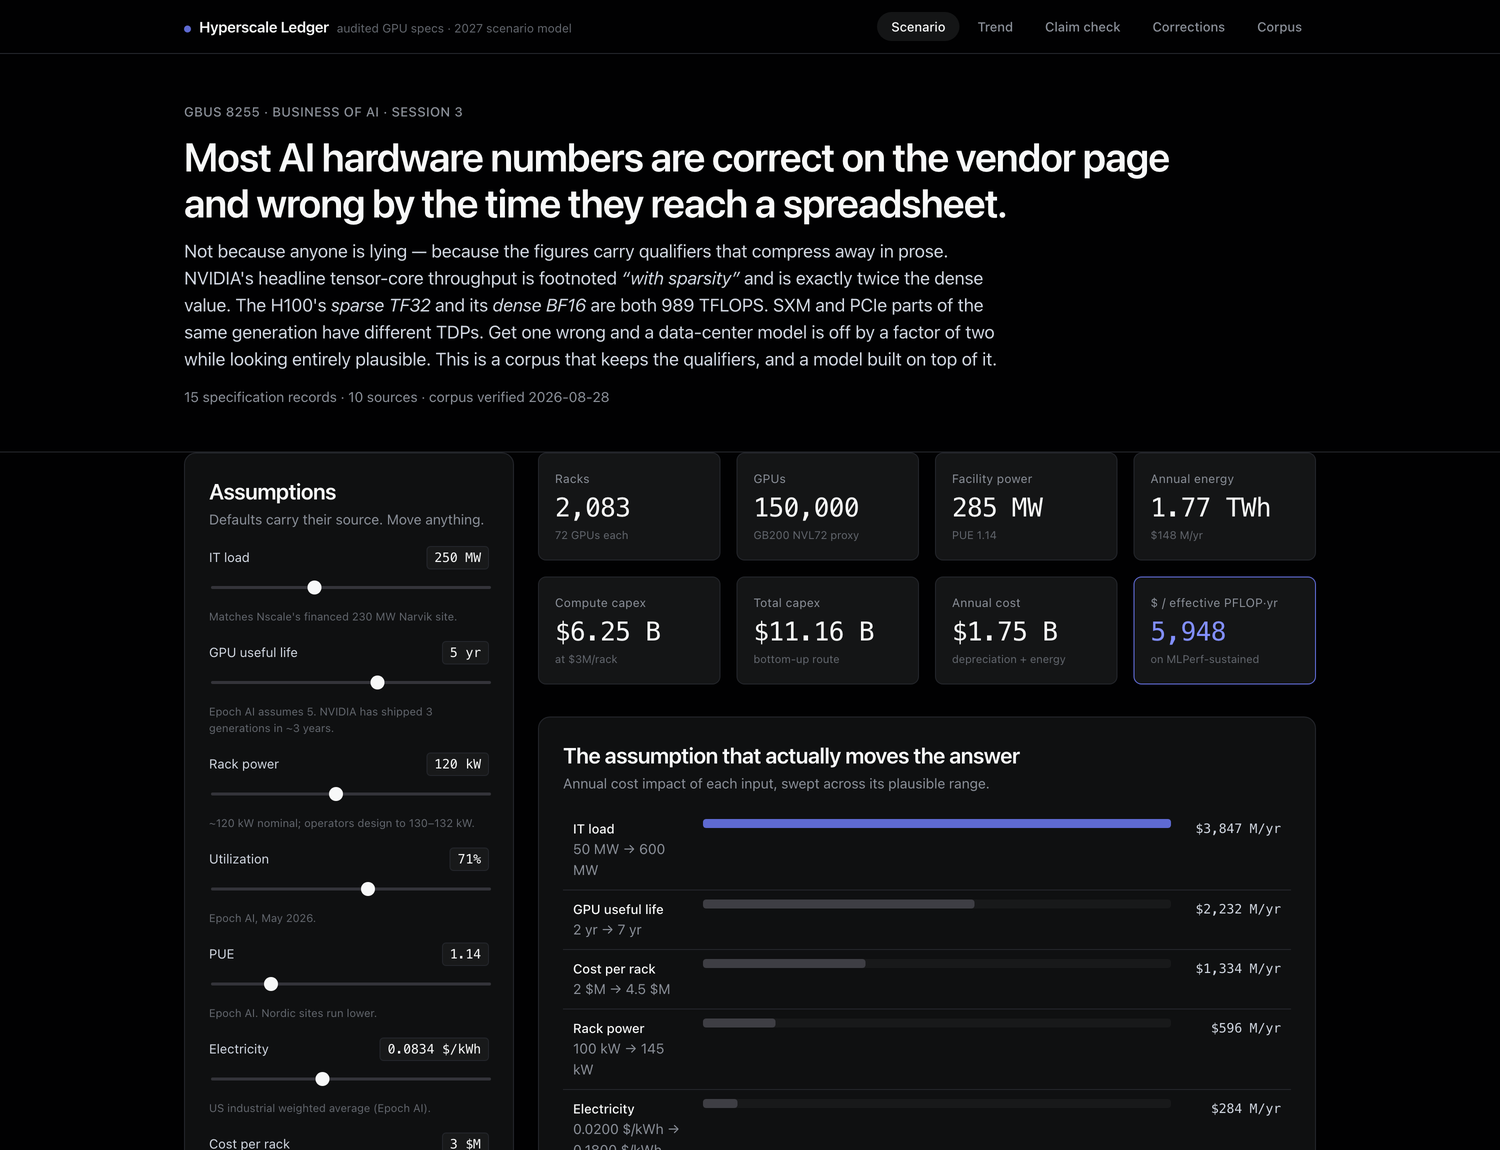
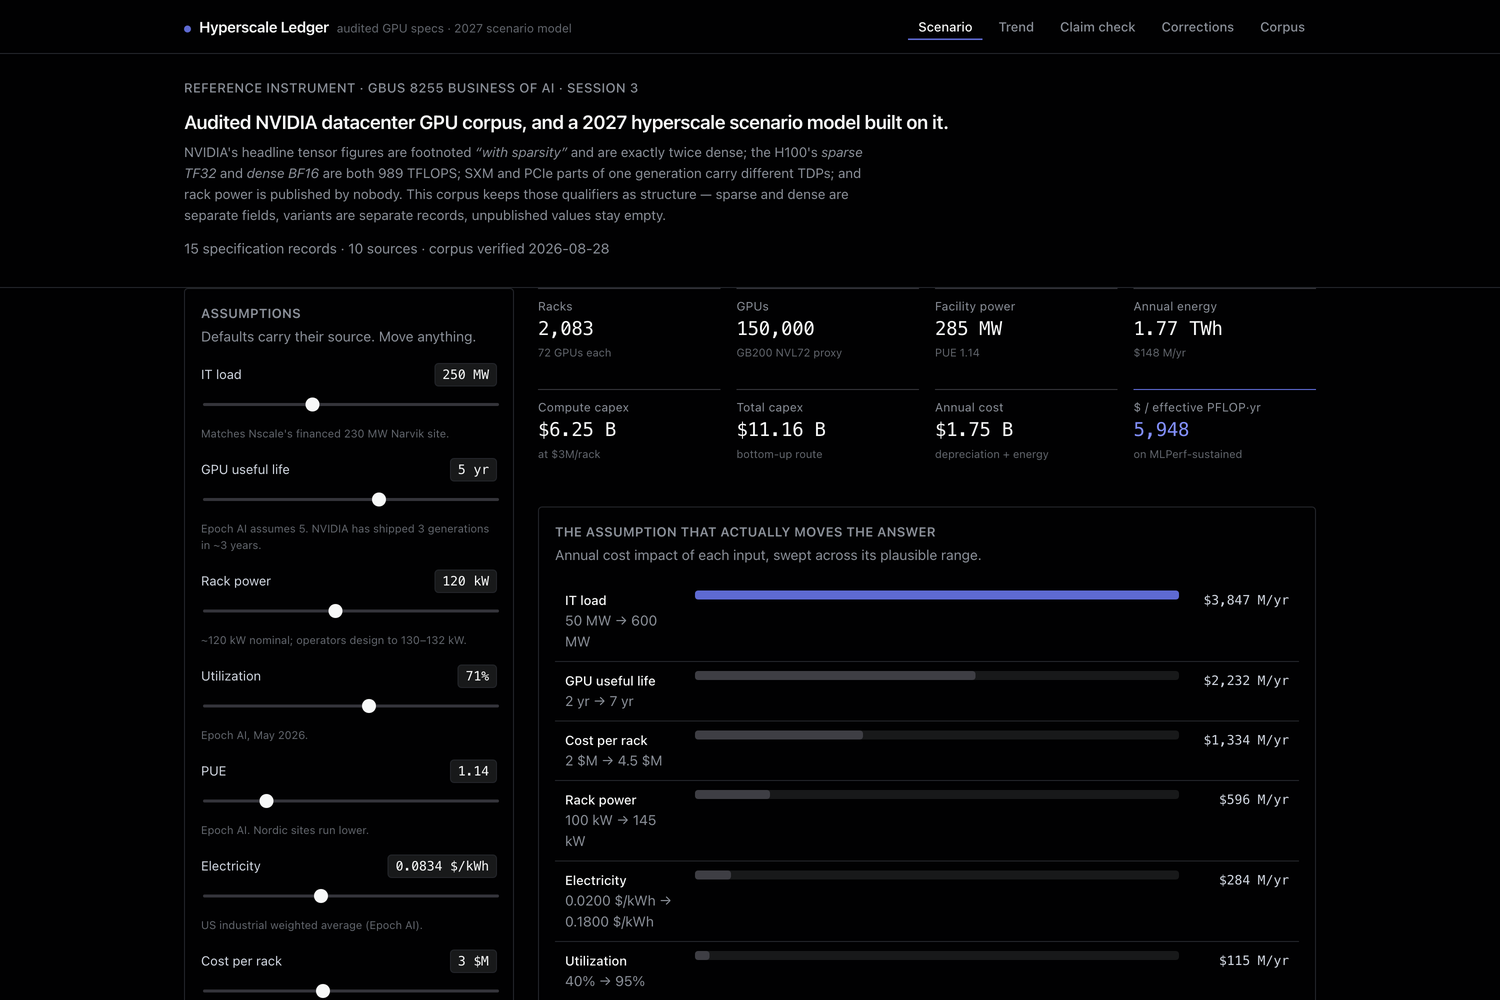
Restyle: read as a reference instrument, not a generated dashboard
Removed the patterns that make generated UI recognizable: the 4-across
rounded stat-card grid becomes a flush data readout separated by hairline
rules; the marketing-scale hero headline becomes a compact document header;
pill tabs become an underline; card radii tightened throughout.

diff --git a/styles.css b/styles.css
@@ -28,7 +28,7 @@
   --alert: #cf5c4a;
 
   --r-xs: 4px;  --r-sm: 6px;  --r-md: 8px;
-  --r-lg: 12px; --r-xl: 16px; --r-pill: 9999px;
+  --r-lg: 6px; --r-xl: 8px; --r-pill: 9999px;
 
   --s-xxs: 4px; --s-xs: 8px;  --s-sm: 12px; --s-md: 16px;
   --s-lg: 24px; --s-xl: 32px; --s-xxl: 48px; --s-section: 96px;
@@ -56,8 +56,8 @@ body {
 
 /* ---------- type ---------- */
 h1, h2, h3 { margin: 0; font-weight: 600; }
-h1 { font-size: 40px; line-height: 1.15; letter-spacing: -1px; }
-h2 { font-size: 22px; line-height: 1.25; letter-spacing: -0.4px; }
+h1 { font-size: 19px; line-height: 1.3; letter-spacing: -0.3px; font-weight: 600; }
+h2 { font-size: 13px; line-height: 1.3; letter-spacing: 0.3px; font-weight: 600; text-transform: uppercase; color: var(--ink-subtle); }
 h3 { font-size: 16px; line-height: 1.3; letter-spacing: -0.2px; font-weight: 500; }
 p  { margin: 0 0 var(--s-sm); color: var(--ink-muted); }
 a  { color: var(--primary-hover); text-decoration: none; }
@@ -93,13 +93,13 @@ nav.tabs button {
   font-family: var(--sans); font-size: 13px; font-weight: 500;
   color: var(--ink-subtle); background: transparent;
   border: 1px solid transparent; border-radius: var(--r-pill);
-  padding: 6px 13px; cursor: pointer; transition: color .12s, background .12s;
+  padding: 6px 10px; cursor: pointer; transition: color .12s; border-radius: 0;
 }
 nav.tabs button:hover { color: var(--ink); }
-nav.tabs button[aria-selected="true"] { background: var(--surface-2); color: var(--ink); }
+nav.tabs button[aria-selected="true"] { background: transparent; color: var(--ink); box-shadow: inset 0 -1.5px 0 var(--primary); border-radius: 0; }
 
-.hero { padding: var(--s-xxl) 0 var(--s-xl); border-bottom: 1px solid var(--hairline); }
-.hero p.lede { font-size: 18px; line-height: 1.5; max-width: 74ch; margin-top: var(--s-sm); }
+.hero { padding: var(--s-lg) 0 var(--s-md); border-bottom: 1px solid var(--hairline); }
+.hero p.lede { font-size: 13.5px; line-height: 1.55; max-width: 82ch; margin-top: var(--s-xs); color: var(--ink-subtle); }
 
 main { padding: var(--s-xl) 0 var(--s-section); }
 section.view[hidden] { display: none; }
@@ -107,10 +107,10 @@ section.view[hidden] { display: none; }
 
 /* ---------- panels ---------- */
 .panel {
-  background: var(--surface-1);
+  background: transparent;
   border: 1px solid var(--hairline);
-  border-radius: var(--r-lg);
-  padding: var(--s-lg);
+  border-radius: var(--r-xs);
+  padding: var(--s-md) var(--s-md) var(--s-lg);
 }
 .panel > h2 { margin-bottom: var(--s-xxs); }
 .panel > .sub { margin-bottom: var(--s-md); }
@@ -122,17 +122,17 @@ section.view[hidden] { display: none; }
 
 /* ---------- stat tiles ---------- */
 .tile {
-  background: var(--surface-2); border: 1px solid var(--hairline);
-  border-radius: var(--r-md); padding: var(--s-md);
+  background: transparent; border: none; border-top: 1px solid var(--hairline-strong);
+  border-radius: 0; padding: var(--s-xs) 0 var(--s-sm);
 }
 .tile .k { font-size: 12px; color: var(--ink-subtle); letter-spacing: 0.2px; }
 .tile .v {
   font-family: var(--mono); font-variant-numeric: tabular-nums;
-  font-size: 26px; font-weight: 500; letter-spacing: -0.6px; margin-top: 6px;
-  line-height: 1.1;
+  font-size: 19px; font-weight: 400; letter-spacing: -0.3px; margin-top: 3px;
+  line-height: 1.15;
 }
 .tile .d { font-size: 11px; color: var(--ink-tertiary); margin-top: 5px; }
-.tile.accent { border-color: var(--primary-focus); }
+.tile.accent { border-top-color: var(--primary); }
 .tile.accent .v { color: var(--primary-hover); }
 
 /* ---------- controls ---------- */

diff --git a/index.html b/index.html
@@ -28,10 +28,10 @@
 
 <div class="hero">
   <div class="wrap">
-    <p class="eyebrow">GBUS 8255 · Business of AI · Session 3</p>
-    <h1 style="margin-top:10px">Most AI hardware numbers are correct on the vendor page<br>and wrong by the time they reach a spreadsheet.</h1>
-    <p class="lede">Not because anyone is lying — because the figures carry qualifiers that compress away in prose. NVIDIA's headline tensor-core throughput is footnoted <em>“with sparsity”</em> and is exactly twice the dense value. The H100's <em>sparse TF32</em> and its <em>dense BF16</em> are both 989 TFLOPS. SXM and PCIe parts of the same generation have different TDPs. Get one wrong and a data-center model is off by a factor of two while looking entirely plausible. This is a corpus that keeps the qualifiers, and a model built on top of it.</p>
-    <p class="sub" id="hero-meta" style="margin-top:14px"></p>
+    <p class="eyebrow">Reference instrument · GBUS 8255 Business of AI · Session 3</p>
+    <h1 style="margin-top:6px">Audited NVIDIA datacenter GPU corpus, and a 2027 hyperscale scenario model built on it.</h1>
+    <p class="lede">NVIDIA's headline tensor figures are footnoted <em>“with sparsity”</em> and are exactly twice dense; the H100's <em>sparse TF32</em> and <em>dense BF16</em> are both 989 TFLOPS; SXM and PCIe parts of one generation carry different TDPs; and rack power is published by nobody. This corpus keeps those qualifiers as structure — sparse and dense are separate fields, variants are separate records, unpublished values stay empty.</p>
+    <p class="sub" id="hero-meta" style="margin-top:10px"></p>
   </div>
 </div>
 
